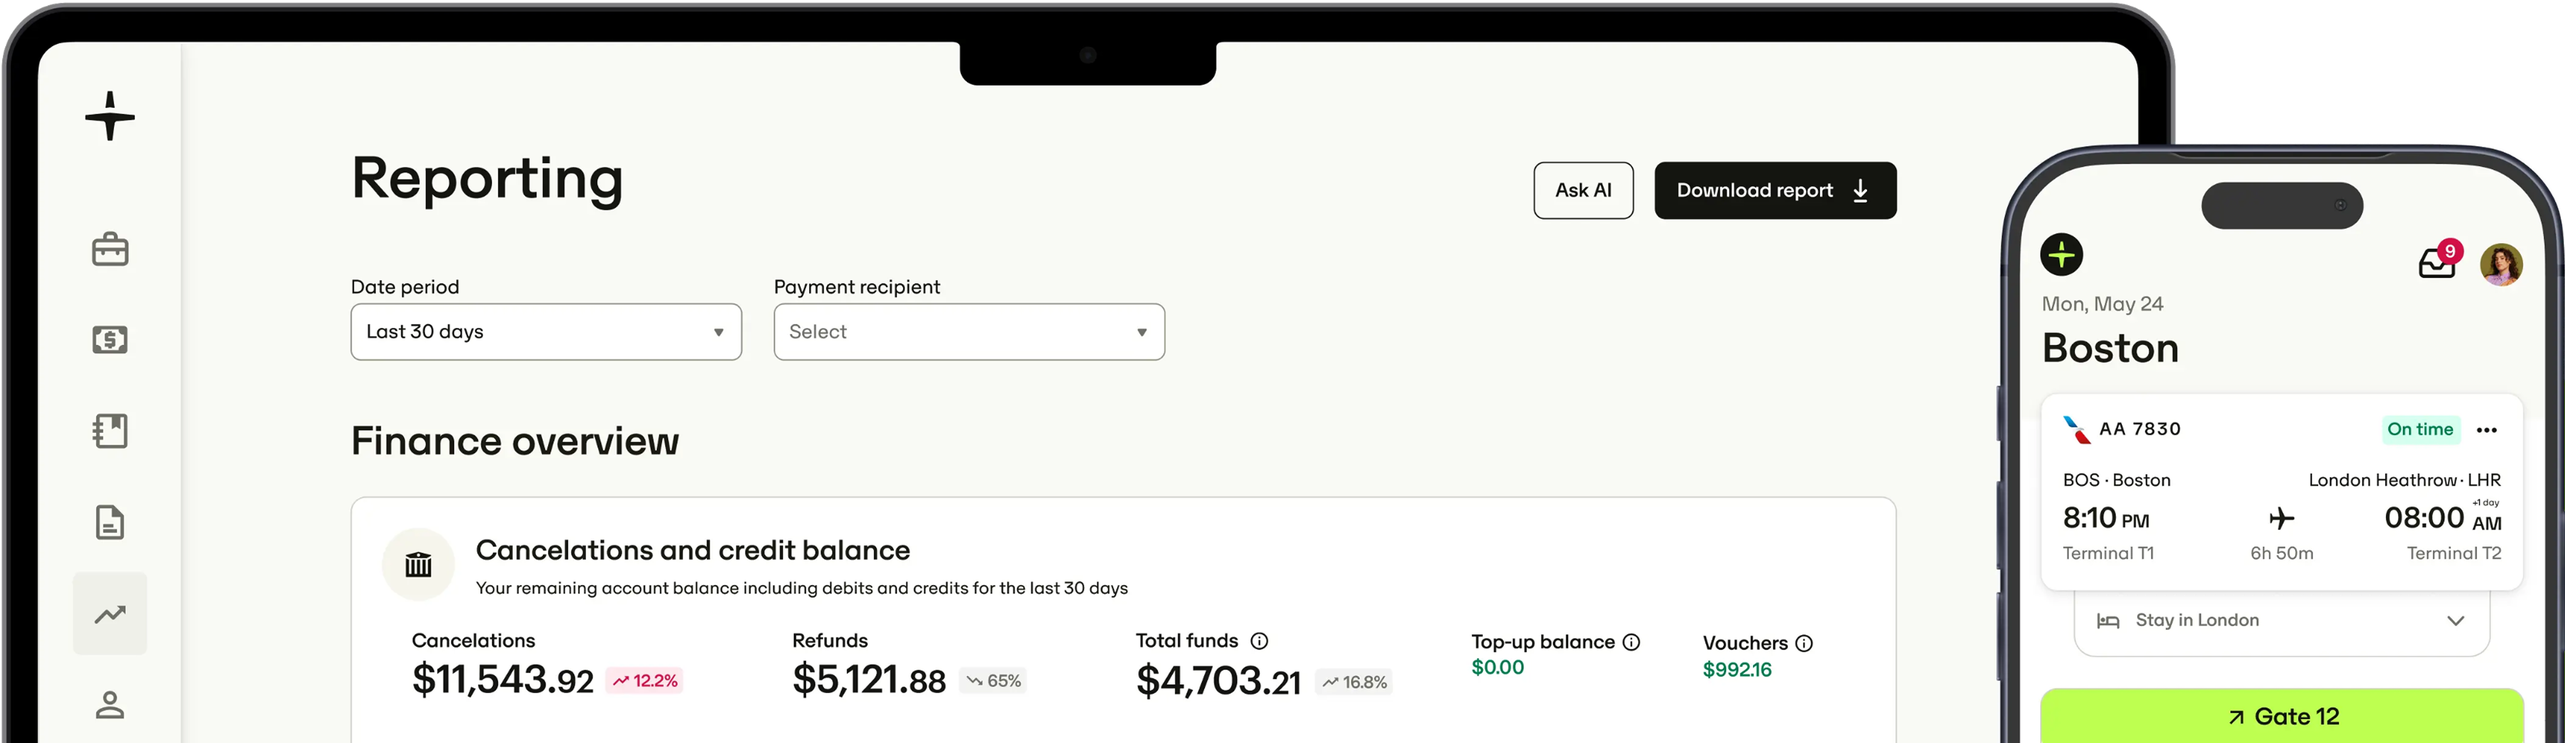
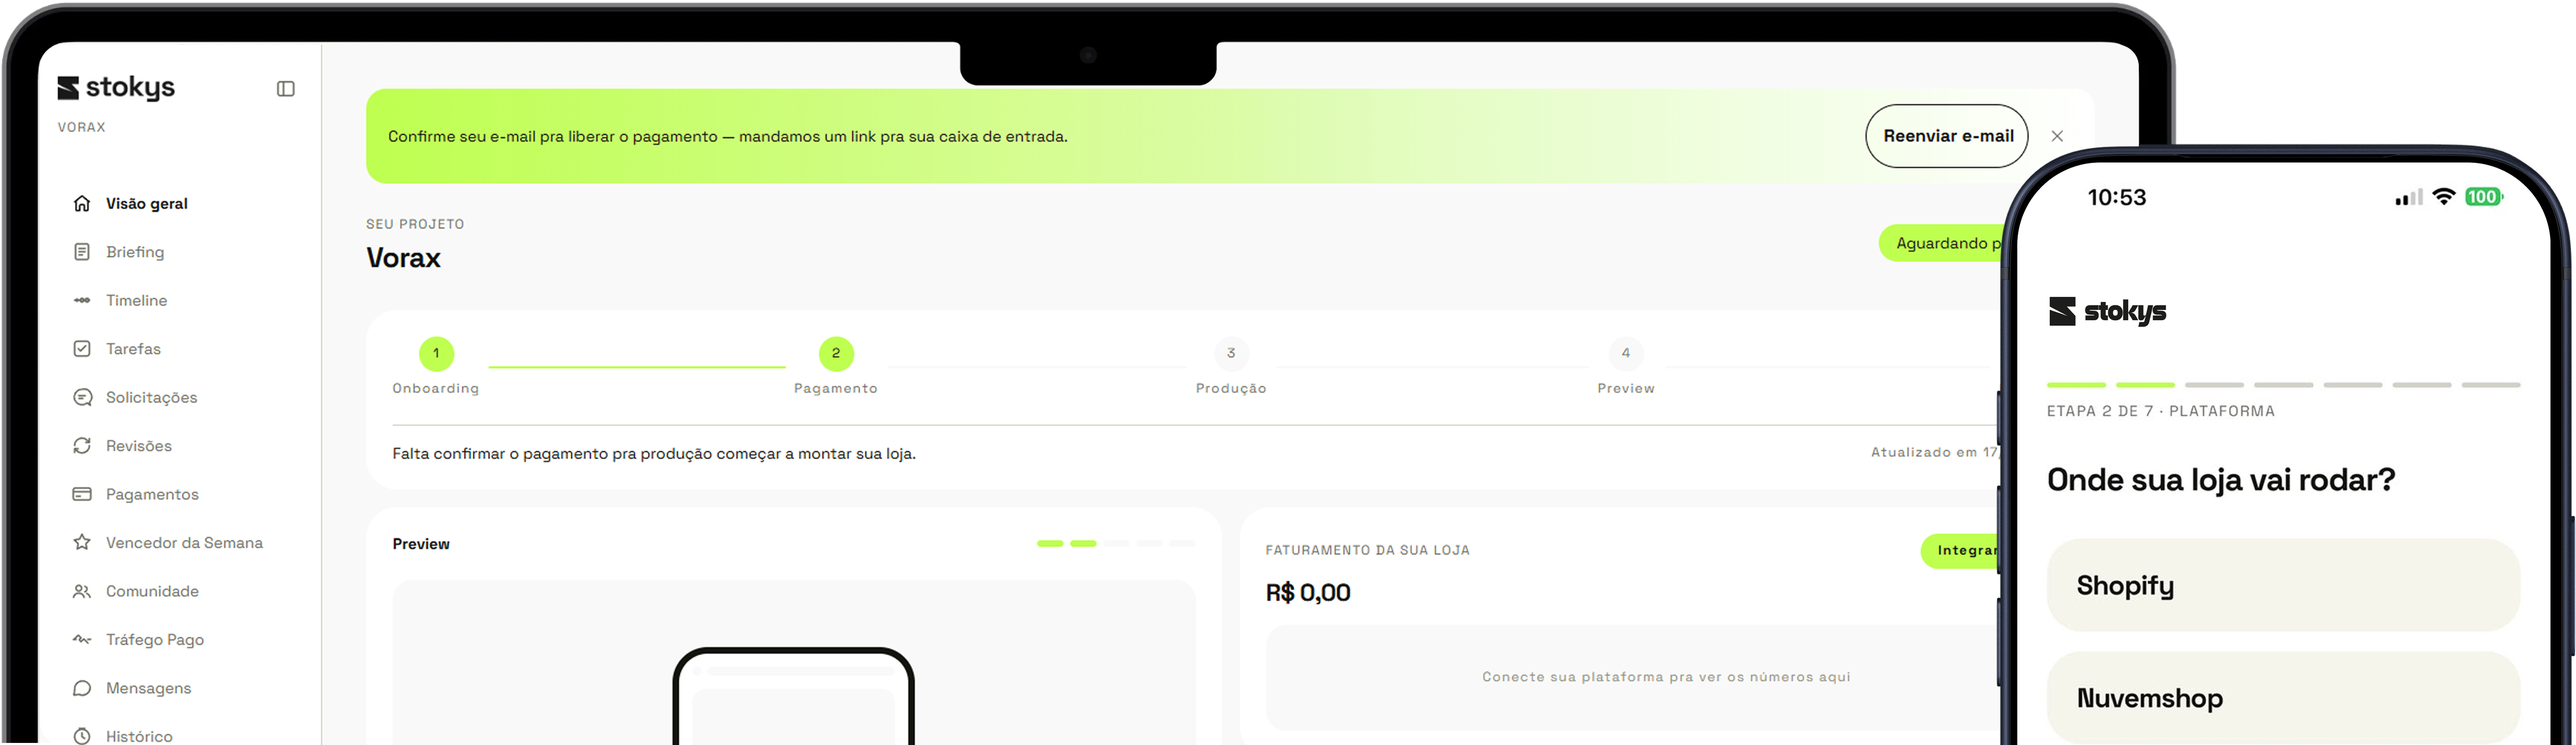
Troca mockup do hero por screenshot real do produto
public/hero-mockup.png agora e um print de verdade do painel Stokys
(Visao geral + onboarding), no lugar do mockup generico da Perk usado
antes do produto existir.

diff --git a/src/components/marketing/hero.tsx b/src/components/marketing/hero.tsx
@@ -1,10 +1,6 @@
 import Image from "next/image";
 import { LinkButton } from "@/components/ui/button";
 
-// TODO: a imagem abaixo (public/hero-mockup.png) é um screenshot real do produto da
-// Perk (competidora) — ver conversa com o usuário sobre trocar por um mockup próprio
-// da Stokys antes de publicar em produção.
-
 export function Hero() {
   return (
     <section className="bg-hero-canvas px-6 pb-0 pt-12 sm:px-10 md:pt-16 lg:px-16">
@@ -34,8 +30,8 @@ export function Hero() {
         <Image
           src="/hero-mockup.png"
           alt="Preview da plataforma Stokys"
-          width={6197}
-          height={1795}
+          width={6222}
+          height={1800}
           className="h-auto w-full"
           priority
         />
